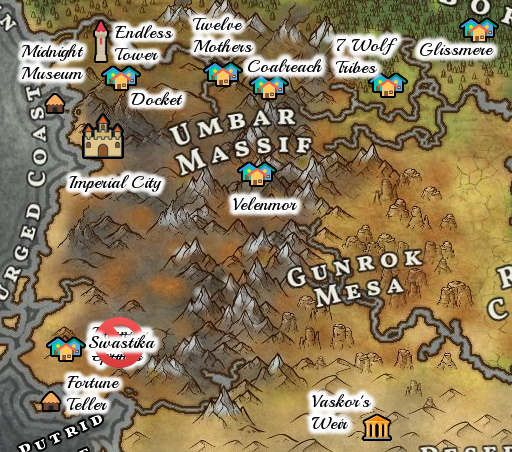
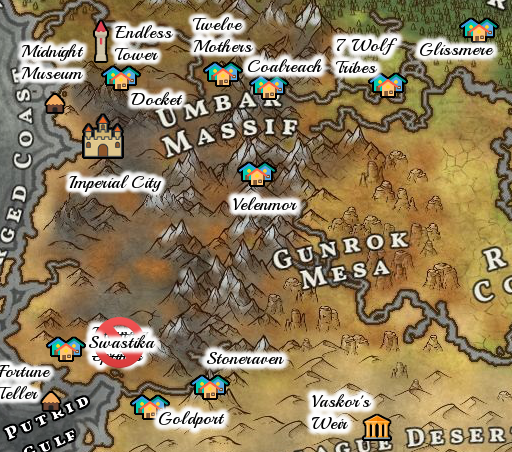
Add files via upload
Got the zoomed in section size fixed! Also added two new locations.

diff --git a/index.html b/index.html
@@ -6,7 +6,7 @@
 	<link rel="icon" type="image/x-icon" href="d20.webp">
     <title>Alantrea</title>
     <style>
-		main									{display: grid; grid-template-columns: auto auto;}
+		main									{display: grid; grid-template-columns: 1fr 1fr;}
 		.image-container 						{display: inline-block; position: relative; }
 		.main-image								{display:block;}
 		.section1								{top:0px; left: 0px; width: 256px; height: 226px;}
@@ -29,9 +29,7 @@
 		.border1								{border-right: dashed 2px black; border-bottom: dashed 2px black;}
 		.border2								{border-bottom: dashed 2px black;}
 		.border3								{border-right: dashed 2px black;}
-		.hover-area:hover 						{background-color: rgba(0, 255, 0, 0.4); }
-		.displaycontainer						{display: flex; justify-content: center; align-items: center; }
-		.displaycontainer img					{width: 100%;}		
+		.hover-area:hover 						{background-color: rgba(0, 255, 0, 0.4); }	
 		
     </style>
 </head>
@@ -56,14 +54,19 @@
 			<div class="hover-area border3 section15" onclick="showImage('section15.png')"></div>			
 			<div class="hover-area section16" onclick="showImage('section16.png')"></div>			
 		</div>	
-		<div class="displaycontainer">
-			<img id="displayedImage" src="" alt="Click on a section of the map">
+		<div class="displaycontainerv">
+			<div class="displaycontainerh">
+				<img src="scalev.png" alt="vertical scale" style="height:618px">
+				<img id="displayedImage" src="default.png" alt="Click on a section of the map">
+			</div>
+			<img src="scaleh.png" alt="horizontal scale" style="width:815px">
 		</div>
 	</main>
   <script>
     function showImage(imageSrc) {
       const displayedImage = document.getElementById('displayedImage');
       displayedImage.src = imageSrc;
+	  displayedImage.style.width = "700px";
     }
   </script>
 </body>
